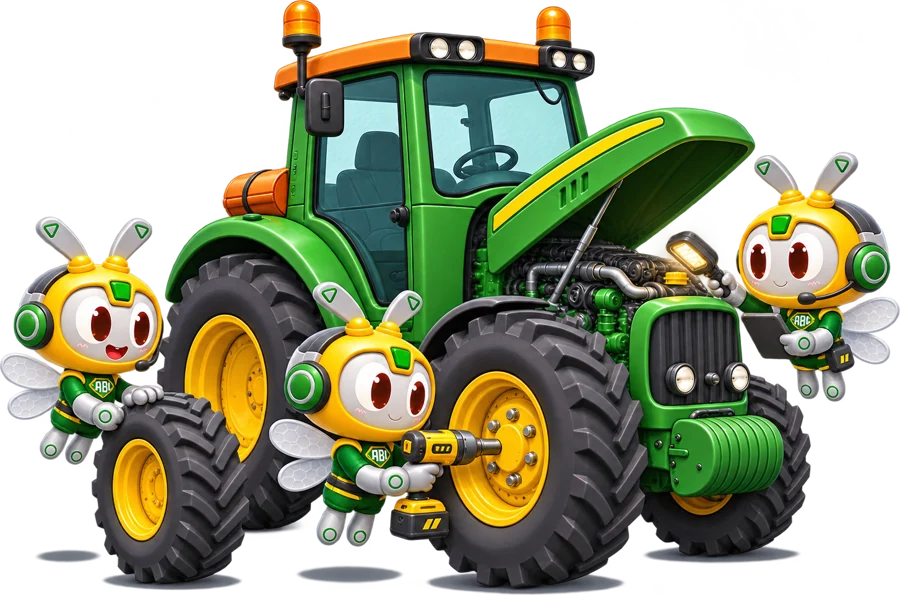
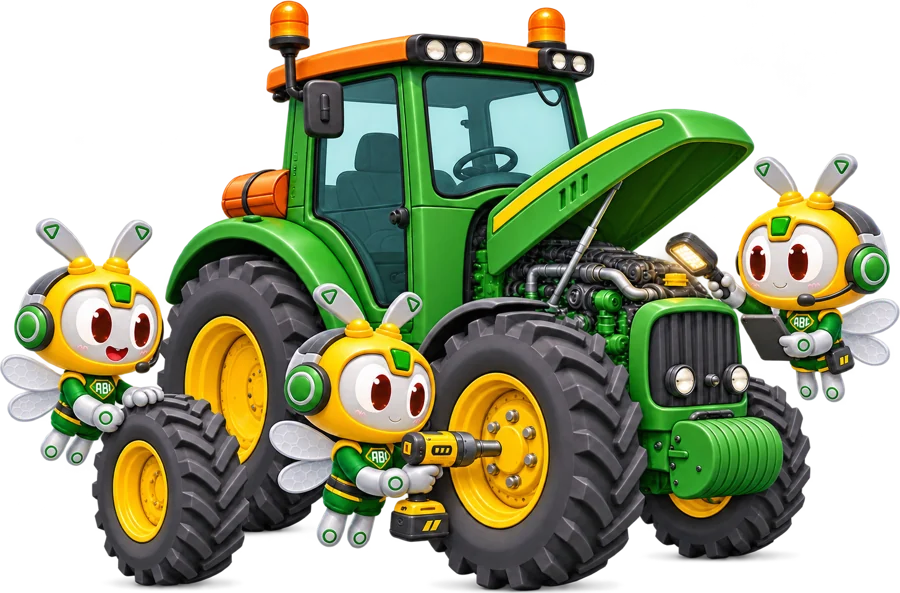
Fixes: uncropped ABI and titles, FAQ title on 2 lines, gallery sort label, postcard step layout and hashtag wrap, new tractor art, stronger form border
Claude-Session: https://claude.ai/code/session_01QKA4vRNJqgtPifKKZLGBy5

Changed region(s): [[0.0, 0.0, 1.0, 1.0], [0.3733, 0.2732, 0.4044, 0.3035]]

diff --git a/preview/vao-vu/khoanh-khac/index.html?xep=love.html b/preview/vao-vu/khoanh-khac/index.html?xep=love.html
@@ -85,8 +85,8 @@ window._wpemojiSettings = {"baseUrl":"https:\/\/s.w.org\/images\/core\/emoji\/16
   <div class="seam" data-next="#f3faf5" data-h="90" data-tones="#bfe6ccd0,#2faa5ab0" data-line="lime"></div>
   <section class="band ct-gal" id="thu-vien">
     <div class="in">
-      <div class="st-head"><div><h2 class="gt">Bình chọn ảnh</h2><p class="ct-count"><b>6</b> ảnh dự thi · bấm tim để vote</p></div>
-        <nav class="st-sort"><a href="index.html%3Fxep=new.html#thu-vien">Mới nhất</a><a href="index.html%3Fxep=love.html#thu-vien" aria-current="true">Nhiều love nhất</a></nav></div>
+      <div class="st-head"><div><h2 class="gt">Bình chọn ảnh</h2></div>
+        <nav class="st-sort"><a href="index.html%3Fxep=new.html#thu-vien">Mới nhất</a><a href="index.html%3Fxep=love.html#thu-vien" aria-current="true">Được yêu thích nhất</a></nav></div>
       <div class="amv-bar" data-state="open"><p class="amv-who" hidden></p><button type="button" class="amv-signin">Đăng nhập để bình chọn</button><button type="button" class="amv-signout" hidden>Đăng xuất</button></div>            <ul class="st-gallery">
                 <li id="anh-89">
           <button type="button" class="st-thumb" data-full="/agris-move-demo/preview/wp-content/uploads/2026/11/AgriC_20261123-1543_tran-quoc-bao_89_frame-819x1024.jpg" data-desc="" data-title="Mía trổ cờ, xe vào đồng"><img src="../../wp-content/uploads/2026/11/AgriC_20261123-1543_tran-quoc-bao_89_frame-768x960.jpg" alt="Mía trổ cờ, xe vào đồng" loading="lazy"></button>

diff --git a/preview/vao-vu/khoanh-khac/index.html b/preview/vao-vu/khoanh-khac/index.html
@@ -85,8 +85,8 @@ window._wpemojiSettings = {"baseUrl":"https:\/\/s.w.org\/images\/core\/emoji\/16
   <div class="seam" data-next="#f3faf5" data-h="90" data-tones="#bfe6ccd0,#2faa5ab0" data-line="lime"></div>
   <section class="band ct-gal" id="thu-vien">
     <div class="in">
-      <div class="st-head"><div><h2 class="gt">Bình chọn ảnh</h2><p class="ct-count"><b>6</b> ảnh dự thi · bấm tim để vote</p></div>
-        <nav class="st-sort"><a href="index.html%3Fxep=new.html#thu-vien" aria-current="true">Mới nhất</a><a href="index.html%3Fxep=love.html#thu-vien">Nhiều love nhất</a></nav></div>
+      <div class="st-head"><div><h2 class="gt">Bình chọn ảnh</h2></div>
+        <nav class="st-sort"><a href="index.html%3Fxep=new.html#thu-vien" aria-current="true">Mới nhất</a><a href="index.html%3Fxep=love.html#thu-vien">Được yêu thích nhất</a></nav></div>
       <div class="amv-bar" data-state="open"><p class="amv-who" hidden></p><button type="button" class="amv-signin">Đăng nhập để bình chọn</button><button type="button" class="amv-signout" hidden>Đăng xuất</button></div>            <ul class="st-gallery">
                 <li id="anh-104">
           <button type="button" class="st-thumb" data-full="/agris-move-demo/preview/wp-content/uploads/2026/11/ComC_20261123-1543_huynh-thanh-tung_104_frame-819x1024.jpg" data-desc="" data-title="Ba xe về một hướng"><img src="../../wp-content/uploads/2026/11/ComC_20261123-1543_huynh-thanh-tung_104_frame-768x960.jpg" alt="Ba xe về một hướng" loading="lazy"></button>

diff --git a/preview/vao-vu/khoanh-khac/index.html?xep=new.html b/preview/vao-vu/khoanh-khac/index.html?xep=new.html
@@ -85,8 +85,8 @@ window._wpemojiSettings = {"baseUrl":"https:\/\/s.w.org\/images\/core\/emoji\/16
   <div class="seam" data-next="#f3faf5" data-h="90" data-tones="#bfe6ccd0,#2faa5ab0" data-line="lime"></div>
   <section class="band ct-gal" id="thu-vien">
     <div class="in">
-      <div class="st-head"><div><h2 class="gt">Bình chọn ảnh</h2><p class="ct-count"><b>6</b> ảnh dự thi · bấm tim để vote</p></div>
-        <nav class="st-sort"><a href="index.html%3Fxep=new.html#thu-vien" aria-current="true">Mới nhất</a><a href="index.html%3Fxep=love.html#thu-vien">Nhiều love nhất</a></nav></div>
+      <div class="st-head"><div><h2 class="gt">Bình chọn ảnh</h2></div>
+        <nav class="st-sort"><a href="index.html%3Fxep=new.html#thu-vien" aria-current="true">Mới nhất</a><a href="index.html%3Fxep=love.html#thu-vien">Được yêu thích nhất</a></nav></div>
       <div class="amv-bar" data-state="open"><p class="amv-who" hidden></p><button type="button" class="amv-signin">Đăng nhập để bình chọn</button><button type="button" class="amv-signout" hidden>Đăng xuất</button></div>            <ul class="st-gallery">
                 <li id="anh-104">
           <button type="button" class="st-thumb" data-full="/agris-move-demo/preview/wp-content/uploads/2026/11/ComC_20261123-1543_huynh-thanh-tung_104_frame-819x1024.jpg" data-desc="" data-title="Ba xe về một hướng"><img src="../../wp-content/uploads/2026/11/ComC_20261123-1543_huynh-thanh-tung_104_frame-768x960.jpg" alt="Ba xe về một hướng" loading="lazy"></button>

diff --git a/wordpress/agris-move/assets/js/studio.js b/wordpress/agris-move/assets/js/studio.js
@@ -142,7 +142,7 @@
       for (; z >= 24; z -= 2) { c.font = `600 ${z}px ${HAND}`; lh = Math.round(z * 1.45); if (lines(wish, w) * lh <= bottom - top + lh * .3) break; }
       for (let y = top + 12; y < bottom; y += lh) line(y);
       c.fillStyle = "#1f3a33"; c.font = `600 ${Math.max(z, 24)}px ${HAND}`; wrap(c, wish, x, top, w, lh, Math.floor((bottom - top) / lh) + 1);
-      c.fillStyle = "#0b6b3a"; c.font = `800 31px ${FONT}`; c.fillText(S.tags || "", x, H - 66);
+      c.fillStyle = "#0b6b3a"; c.font = `800 27px ${FONT}`; { const t = S.tags || ""; if (c.measureText(t).width <= w) c.fillText(t, x, H - 66); else { const p = t.split(" "), h = Math.ceil(p.length / 2); c.fillText(p.slice(0, h).join(" "), x, H - 90); c.fillText(p.slice(h).join(" "), x, H - 54); } }
     };
     if (document.fonts) Promise.all(['600 40px "Dancing Script"'].map(f => document.fonts.load(f, 'Đội ơi ạ'))).then(() => draw()).catch(() => {});
     const pick = async () => { const r = pcForm.querySelector("[name=photo]:checked"); credit = r ? r.dataset.credit : ""; photo = r ? await loadImg(r.value).catch(() => null) : null; pox = poy = 0; pz = 1; if (zr) zr.value = 1; draw(); };

diff --git a/preview/vao-vu/index.html b/preview/vao-vu/index.html
@@ -280,9 +280,9 @@ window._wpemojiSettings = {"baseUrl":"https:\/\/s.w.org\/images\/core\/emoji\/16
       <div class="pc-canvas-wrap"><canvas id="pcCanvas" width="1600" height="1100"></canvas>
         <div class="pc-hint" aria-hidden="true"><svg class="pc-hand" viewBox="0 0 24 24" fill="none" stroke="currentColor" stroke-width="1.8" stroke-linecap="round" stroke-linejoin="round"><path d="M9 11V5a1.5 1.5 0 0 1 3 0v5m0-1a1.5 1.5 0 0 1 3 0v2m0-1a1.5 1.5 0 0 1 3 0v4c0 3.5-2.5 6-6 6h-1c-2 0-3.3-.8-4.4-2.3L4 15.5a1.5 1.5 0 0 1 2.3-1.9L9 16"/></svg><span><b>Giữ và kéo ảnh</b><br>để chọn góc đẹp nhất</span></div></div>
       <label class="pc-zoom">Phóng to ảnh<input type="range" name="pzoom" min="1" max="2.5" step="0.01" value="1"></label>
-      <div class="pc-dl"><h3><span>3</span>Tải thư về và gửi đồng đội</h3><button class="btn" type="button" id="pcDown">Tải thư tay</button></div>
     </div>
   </div>
+  <div class="pc-dl"><h3><span>3</span>Tải thư về và gửi đồng đội</h3><button class="btn" type="button" id="pcDown">Tải thư tay</button></div>
 </form>
     </div>
   </section>

diff --git a/preview/wp-content/themes/agris-move/assets/css/site.css?ver=1.0.0.css b/preview/wp-content/themes/agris-move/assets/css/site.css?ver=1.0.0.css
@@ -706,3 +706,13 @@ a.ph-item:hover img { transform: scale(1.04); }
 .pit-art { margin-bottom: 4px; } .pit-art img { max-width: 360px; }
 .pit-wrap { display: flex; flex-direction: column; align-items: center; } .pit-wrap > * { width: 100%; max-width: 680px; } .pit-art { display: flex; justify-content: center; }
 .pit-art { top: auto; }
+/* fixes round */
+.tk .tk-hero img.abi-hero { max-height: none; height: auto; object-fit: contain; width: clamp(200px, 20vw, 300px); }
+.tk .gt { padding-left: .06em; margin-left: -.06em; }
+.ct-faq h2.gt { font-size: clamp(30px, 3.6vw, 52px); white-space: nowrap; }
+.pc-grid { align-items: stretch; }
+.pc-fields { height: auto; align-self: stretch; grid-template-rows: auto auto auto 1fr; }
+.pc-fields label:last-child { display: grid; grid-template-rows: auto auto 1fr; } .pc-fields label:last-child textarea { height: 100%; }
+.pc-studio > .pc-dl { width: 100%; }
+.tk .pit-main .tk-form { border: 2px solid #b9dcc6; box-shadow: 0 30px 60px -34px rgba(11, 93, 52, .5); }
+.ct-card canvas { border-radius: 14px; }

diff --git a/wordpress/agris-move/assets/css/site.css b/wordpress/agris-move/assets/css/site.css
@@ -706,3 +706,13 @@ a.ph-item:hover img { transform: scale(1.04); }
 .pit-art { margin-bottom: 4px; } .pit-art img { max-width: 360px; }
 .pit-wrap { display: flex; flex-direction: column; align-items: center; } .pit-wrap > * { width: 100%; max-width: 680px; } .pit-art { display: flex; justify-content: center; }
 .pit-art { top: auto; }
+/* fixes round */
+.tk .tk-hero img.abi-hero { max-height: none; height: auto; object-fit: contain; width: clamp(200px, 20vw, 300px); }
+.tk .gt { padding-left: .06em; margin-left: -.06em; }
+.ct-faq h2.gt { font-size: clamp(30px, 3.6vw, 52px); white-space: nowrap; }
+.pc-grid { align-items: stretch; }
+.pc-fields { height: auto; align-self: stretch; grid-template-rows: auto auto auto 1fr; }
+.pc-fields label:last-child { display: grid; grid-template-rows: auto auto 1fr; } .pc-fields label:last-child textarea { height: 100%; }
+.pc-studio > .pc-dl { width: 100%; }
+.tk .pit-main .tk-form { border: 2px solid #b9dcc6; box-shadow: 0 30px 60px -34px rgba(11, 93, 52, .5); }
+.ct-card canvas { border-radius: 14px; }

diff --git a/wordpress/agris-move/page-contest.php b/wordpress/agris-move/page-contest.php
@@ -39,8 +39,8 @@ while ( have_posts() ) : the_post();
   <div class="seam" data-next="#f3faf5" data-h="90" data-tones="#bfe6ccd0,#2faa5ab0" data-line="lime"></div>
   <section class="band ct-gal" id="thu-vien">
     <div class="in">
-      <div class="st-head"><div><h2 class="gt">Bình chọn ảnh</h2><p class="ct-count"><b><?php echo esc_html( count( $items ) ); ?></b> ảnh dự thi · bấm tim để vote</p></div>
-        <nav class="st-sort"><a href="?xep=new#thu-vien"<?php echo 'new' === $order ? ' aria-current="true"' : ''; ?>>Mới nhất</a><a href="?xep=love#thu-vien"<?php echo 'love' === $order ? ' aria-current="true"' : ''; ?>>Nhiều love nhất</a></nav></div>
+      <div class="st-head"><div><h2 class="gt">Bình chọn ảnh</h2></div>
+        <nav class="st-sort"><a href="?xep=new#thu-vien"<?php echo 'new' === $order ? ' aria-current="true"' : ''; ?>>Mới nhất</a><a href="?xep=love#thu-vien"<?php echo 'love' === $order ? ' aria-current="true"' : ''; ?>>Được yêu thích nhất</a></nav></div>
       <?php if ( function_exists( 'amv_bar' ) ) { echo amv_bar(); } // phpcs:ignore ?>
       <?php if ( $items ) : ?>
       <ul class="st-gallery">

diff --git a/wordpress/agris-move/parts/postcard.php b/wordpress/agris-move/parts/postcard.php
@@ -24,7 +24,7 @@ $photos = agm_postcard_photos();
       <div class="pc-canvas-wrap"><canvas id="pcCanvas" width="1600" height="1100"></canvas>
         <div class="pc-hint" aria-hidden="true"><svg class="pc-hand" viewBox="0 0 24 24" fill="none" stroke="currentColor" stroke-width="1.8" stroke-linecap="round" stroke-linejoin="round"><path d="M9 11V5a1.5 1.5 0 0 1 3 0v5m0-1a1.5 1.5 0 0 1 3 0v2m0-1a1.5 1.5 0 0 1 3 0v4c0 3.5-2.5 6-6 6h-1c-2 0-3.3-.8-4.4-2.3L4 15.5a1.5 1.5 0 0 1 2.3-1.9L9 16"/></svg><span><b>Giữ và kéo ảnh</b><br>để chọn góc đẹp nhất</span></div></div>
       <label class="pc-zoom">Phóng to ảnh<input type="range" name="pzoom" min="1" max="2.5" step="0.01" value="1"></label>
-      <div class="pc-dl"><h3><span>3</span>Tải thư về và gửi đồng đội</h3><button class="btn" type="button" id="pcDown">Tải thư tay</button></div>
     </div>
   </div>
+  <div class="pc-dl"><h3><span>3</span>Tải thư về và gửi đồng đội</h3><button class="btn" type="button" id="pcDown">Tải thư tay</button></div>
 </form>
